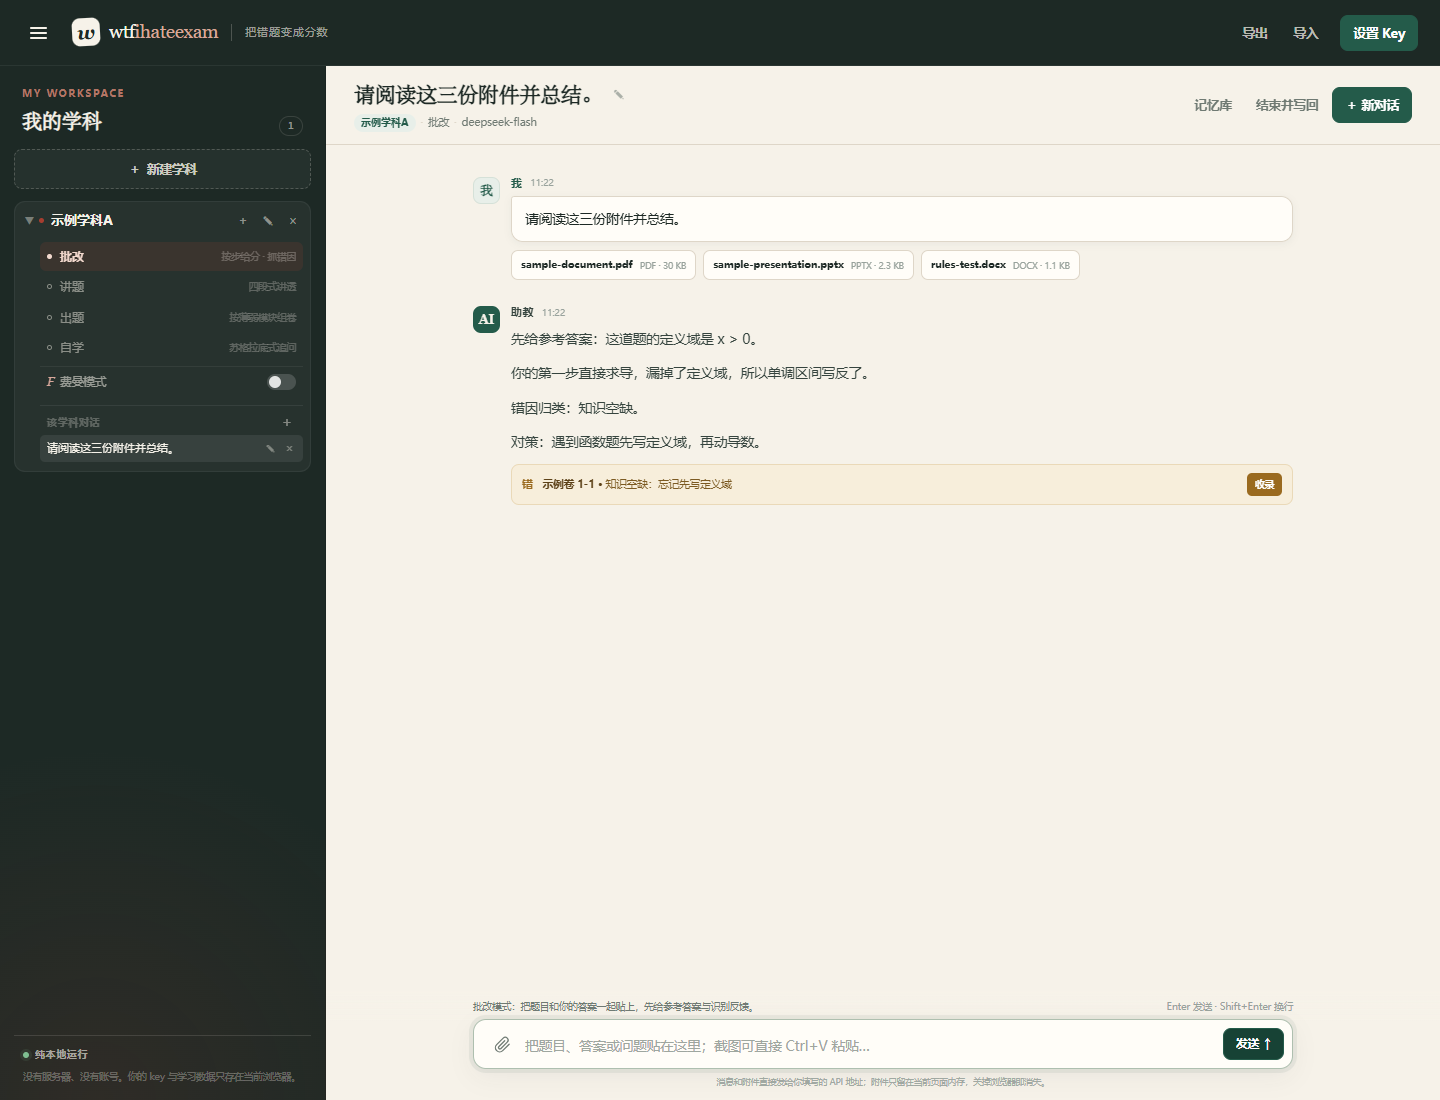
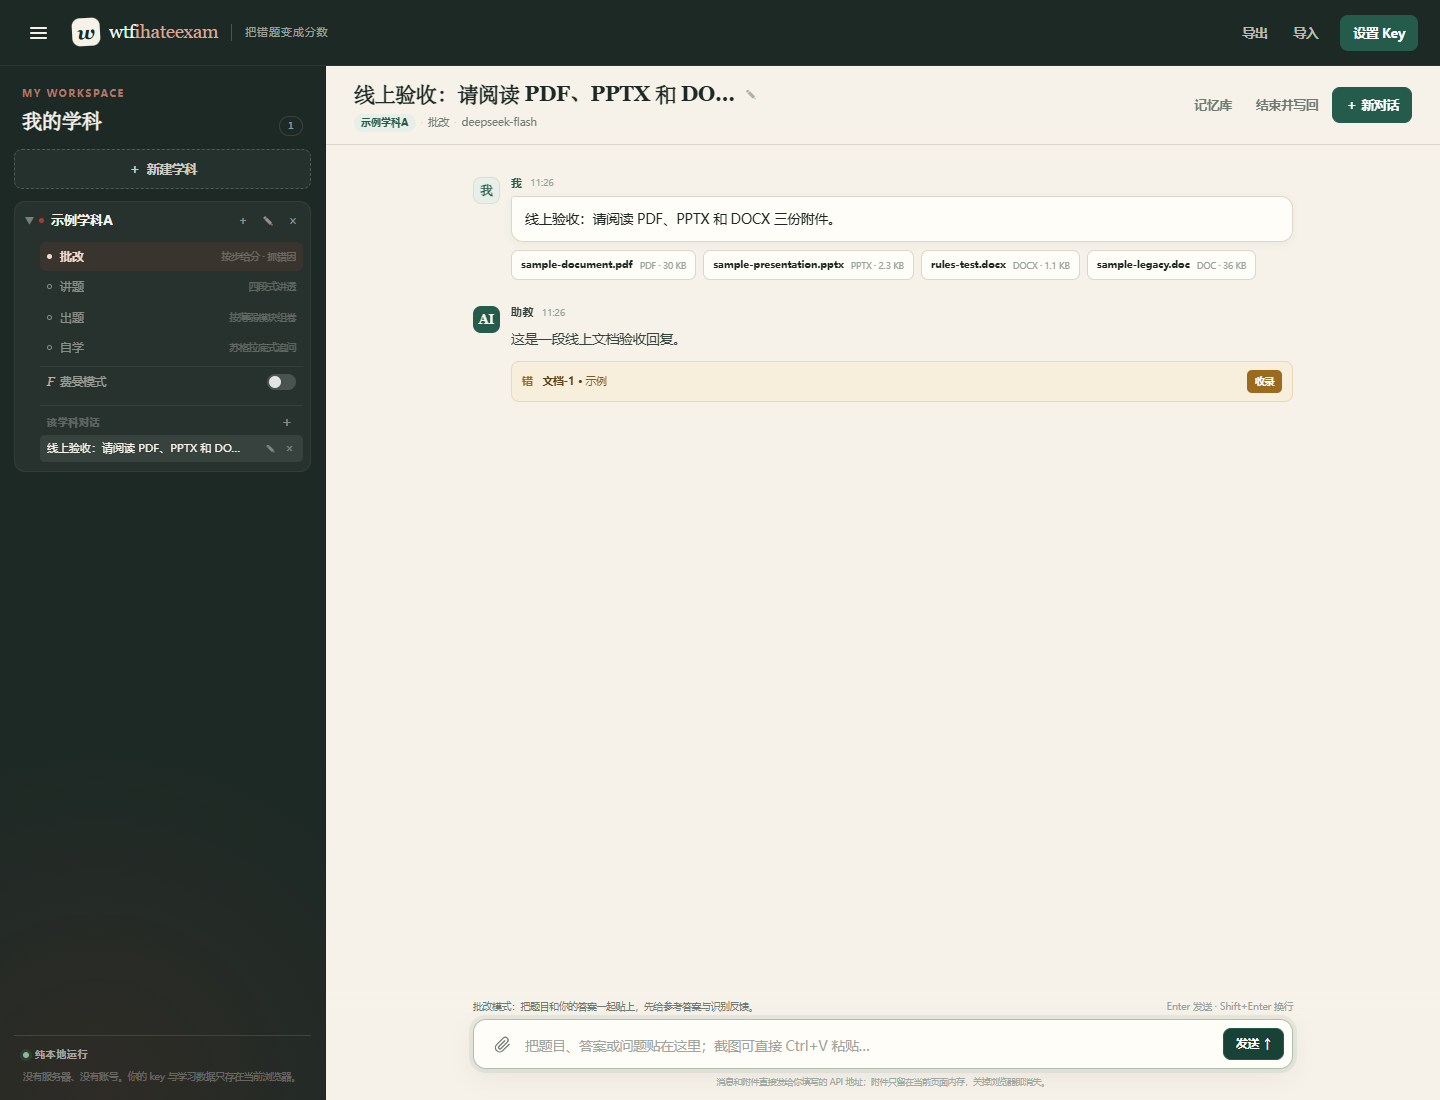
docs: refresh document attachment screenshot

diff --git a/README.md b/README.md
@@ -64,7 +64,7 @@ wtfihateexam 把一次学习收束成一个闭环：
 
 ![图片和文档附件](docs/attachment.png)
 
-![PDF、PPTX、DOCX 文档附件](docs/documents.png)
+![PDF、PPTX、DOCX、旧版 DOC 文档附件](docs/documents.png)
 
 ![公式渲染](docs/math.png)
 
